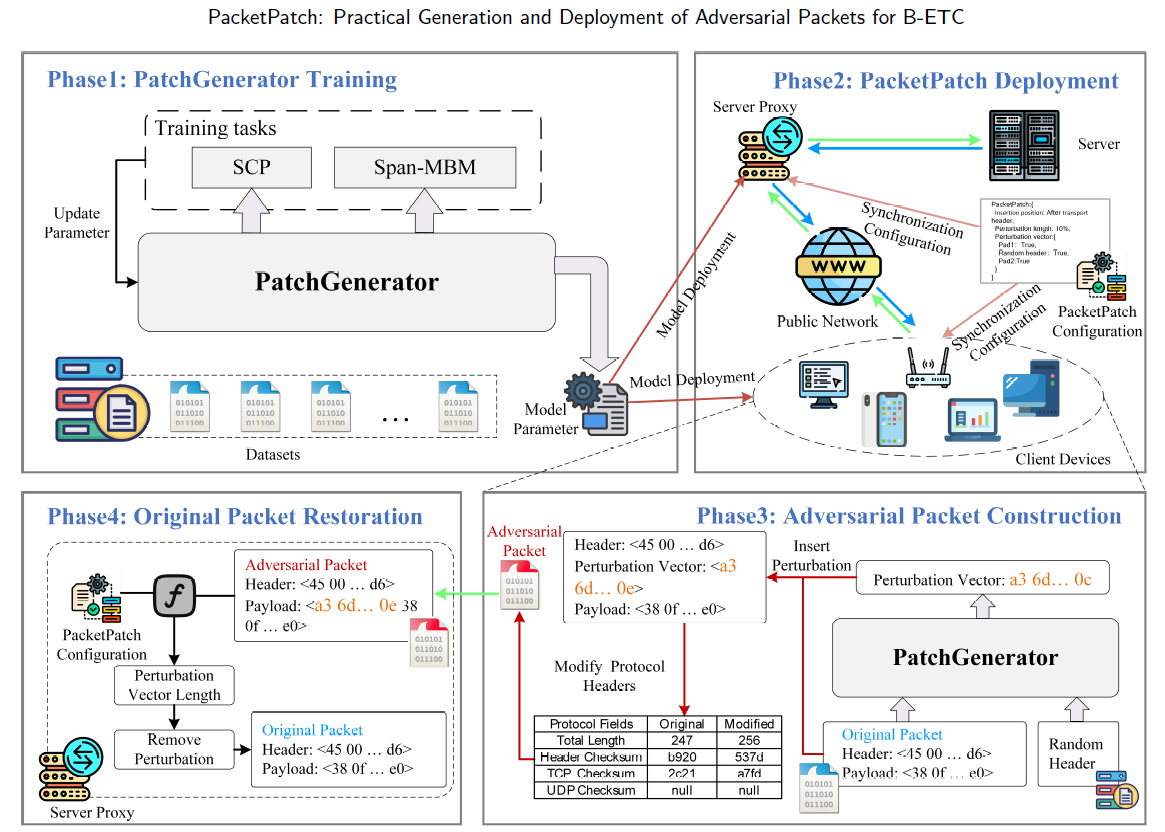
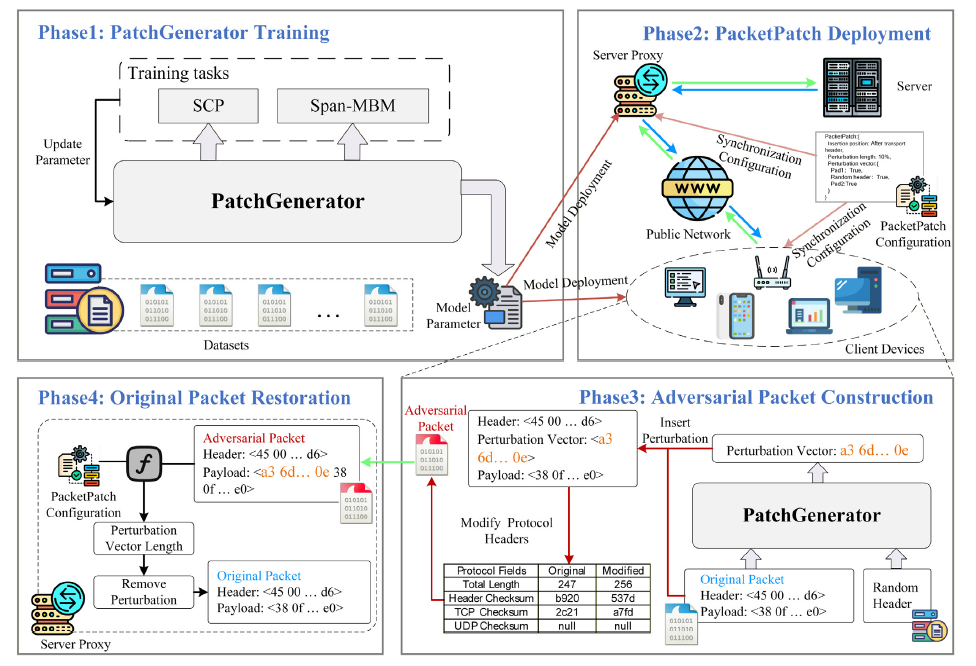
Fix image references: move images to image/ root and update README paths

Changed region(s): [[0.0, 0.0, 0.9836, 1.0]]

diff --git a/image/README.md b/image/README.md
@@ -2,55 +2,41 @@
 
 This directory contains the key figures from the PacketPatch paper for reference and documentation purposes.
 
-## Recommended Figures to Include
+## Figures
 
 | Figure | Description | Paper Reference |
-|--------|-------------|-----------------|
+| ------------------------------------------ | --------------------------------------------------- | --------------- |
 | `Architecture.png` | Overall PacketPatch system architecture and workflow | Figure 2 |
-| `PatchGenerator.png` | PatchGenerator model architecture (BERT-based) | Figure 3 |
-| `Workflow.png` | Perturbation vector generation process | Figure 5 |
-| `Deployment.png` | Symmetric proxy deployment architecture | Figure 6 |
+| `Defense Effectiveness.png` | Defense Success Rate (DSR) across datasets | Results |
+| `Comparison with Baseline Methods.png` | Performance comparison against baseline methods | Results |
 
 ## Figure Descriptions
 
-### 1. System Architecture (Figure 2 in paper)
+### 1. System Architecture (`Architecture.png`)
+
 The four-phase workflow of PacketPatch:
+
 1. **PatchGenerator Training** — Train the BERT-based perturbation generator
 2. **PacketPatch Deployment** — Deploy on both client and server proxies
 3. **Adversarial Packet Construction** — Generate and inject perturbations
 4. **Original Packet Restoration** — Remove perturbations and recover original data
 
-### 2. PatchGenerator Model (Figure 3 in paper)
-The BERT architecture adapted for packet byte processing:
-- **Input Layer** — Non-overlapping bi-gram byte encoding (stride=2)
-- **Embedding Layer** — Token + Position + Segment embeddings (768-dim each)
-- **Encoder Layer** — 12 Transformer blocks with multi-head self-attention
-- **Output Layer** — SCP head (classification) + Span-MBM head (byte generation)
+### 2. Defense Effectiveness (`Defense Effectiveness.png`)
 
-### 3. Perturbation Generation (Figure 5 in paper)
-Four-stage generation process:
-1. Input Preparation — Separate header from payload
-2. Sequence Construction — Assemble with [MASK] tokens and random header
-3. Perturbation Generation — Single forward pass with argmin/argmax selection
-4. Vector Assembly — Concatenate Pad1 + hr + Pad2
+Defense Success Rate (DSR) of PacketPatch across three public datasets (ISCX-TOR, ISCX-VPN, USTC), demonstrating the effectiveness of adversarial packet generation against B-ETC models.
 
-### 4. Proxy Deployment (Figure 6 in paper)
-Client-server proxy architecture based on SOCKS5 protocol with TCP_NODELAY optimization.
+### 3. Comparison with Baseline Methods (`Comparison with Baseline Methods.png`)
 
-## Adding Figures
+PacketPatch performance compared against white-box and random baseline methods under strict black-box conditions, showing superior defense effectiveness with controllable bandwidth overhead (≤10%).
 
-To include figures in this directory:
-
-1. Extract high-resolution figures from the paper PDF
-2. Save as PNG format with descriptive filenames
-3. Update this README with any additional figures added
-
-## Usage in README
+## Usage in Documentation
 
 These figures can be referenced in the root `README.md` and other documentation:
 
 ```markdown
-![PacketPatch Architecture](image/Architecture.png)
+![Architecture](image/Architecture.png)
+![Defense Effectiveness](image/Defense%20Effectiveness.png)
+![Comparison with Baseline Methods](image/Comparison%20with%20Baseline%20Methods.png)
 ```
 
 ---

diff --git a/README.md b/README.md
@@ -15,11 +15,11 @@ PacketPatch is a practical scheme for generating adversarial network packets aga
 - **User-Agnostic**: Perturbation generation relies solely on current packet features, without user behavior history
 - **Real-Time Efficiency**: Single forward pass generation, average latency ~10 ms per packet
 - **Controllable Bandwidth Overhead**: Perturbation length ≤ 10% of original packet size
-- **Packet Validity & Recoverability**: Symmetric proxy architecture ensures packets pass integrity checks and can be perfectly restored at the receiver
+- **Packet Validity & Recovability**: Symmetric proxy architecture ensures packets pass integrity checks and can be perfectly restored at the receiver
 
 ## Architecture
 
-![1779787785696](image/README/1779787785696.png)
+![Architecture](image/Architecture.png)
 
 ### PatchGenerator Workflow
 
@@ -192,7 +192,7 @@ Reconstructs consecutive masked byte spans using bidirectional context. This equ
 
 ### Defense Effectiveness (DSR: Defense Success Rate)
 
-![1779788145231](image/README/1779788145231.png)
+![Defense Effectiveness](image/Defense%20Effectiveness.png)
 
 ### Time Overhead
 
@@ -203,11 +203,9 @@ Reconstructs consecutive masked byte spans using bidirectional context. This equ
 | Packet Reconstruction   | 0.398            |
 | **Total**         | **10.078** |
 
-## Comparison with Baseline Methods
-
 PacketPatch outperforms the following white-box baseline methods under strict black-box assumptions:
 
-![1779788259065](image/README/1779788259065.png)
+![Comparison with Baseline Methods](image/Comparison%20with%20Baseline%20Methods.png)
 
 ## Citation
 
